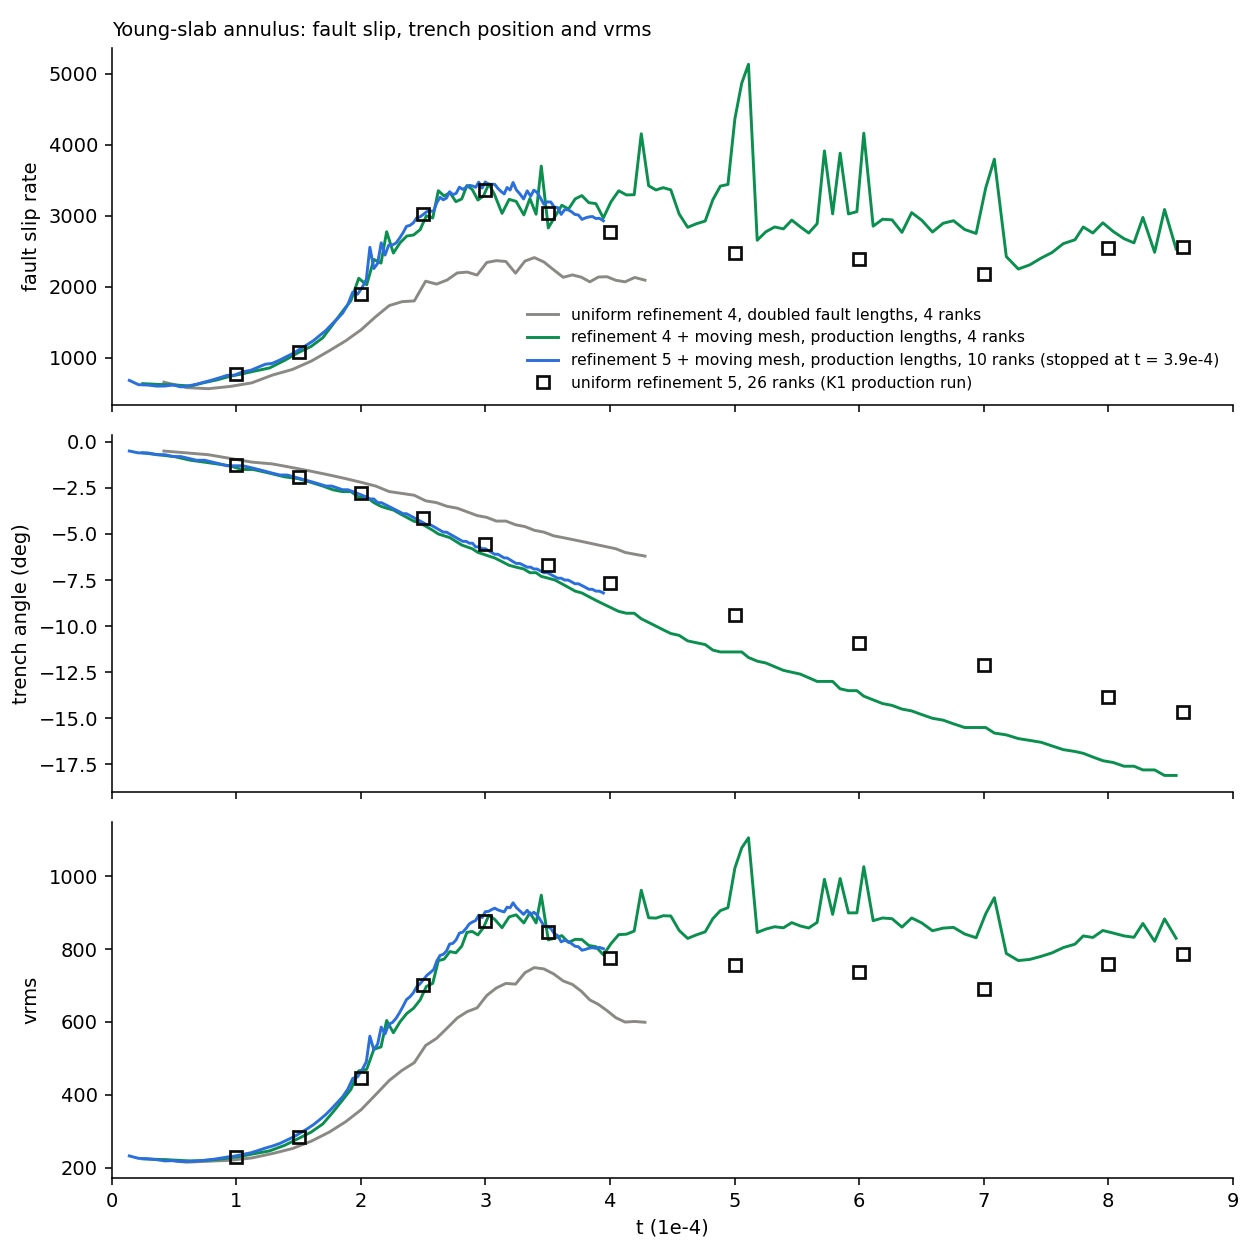
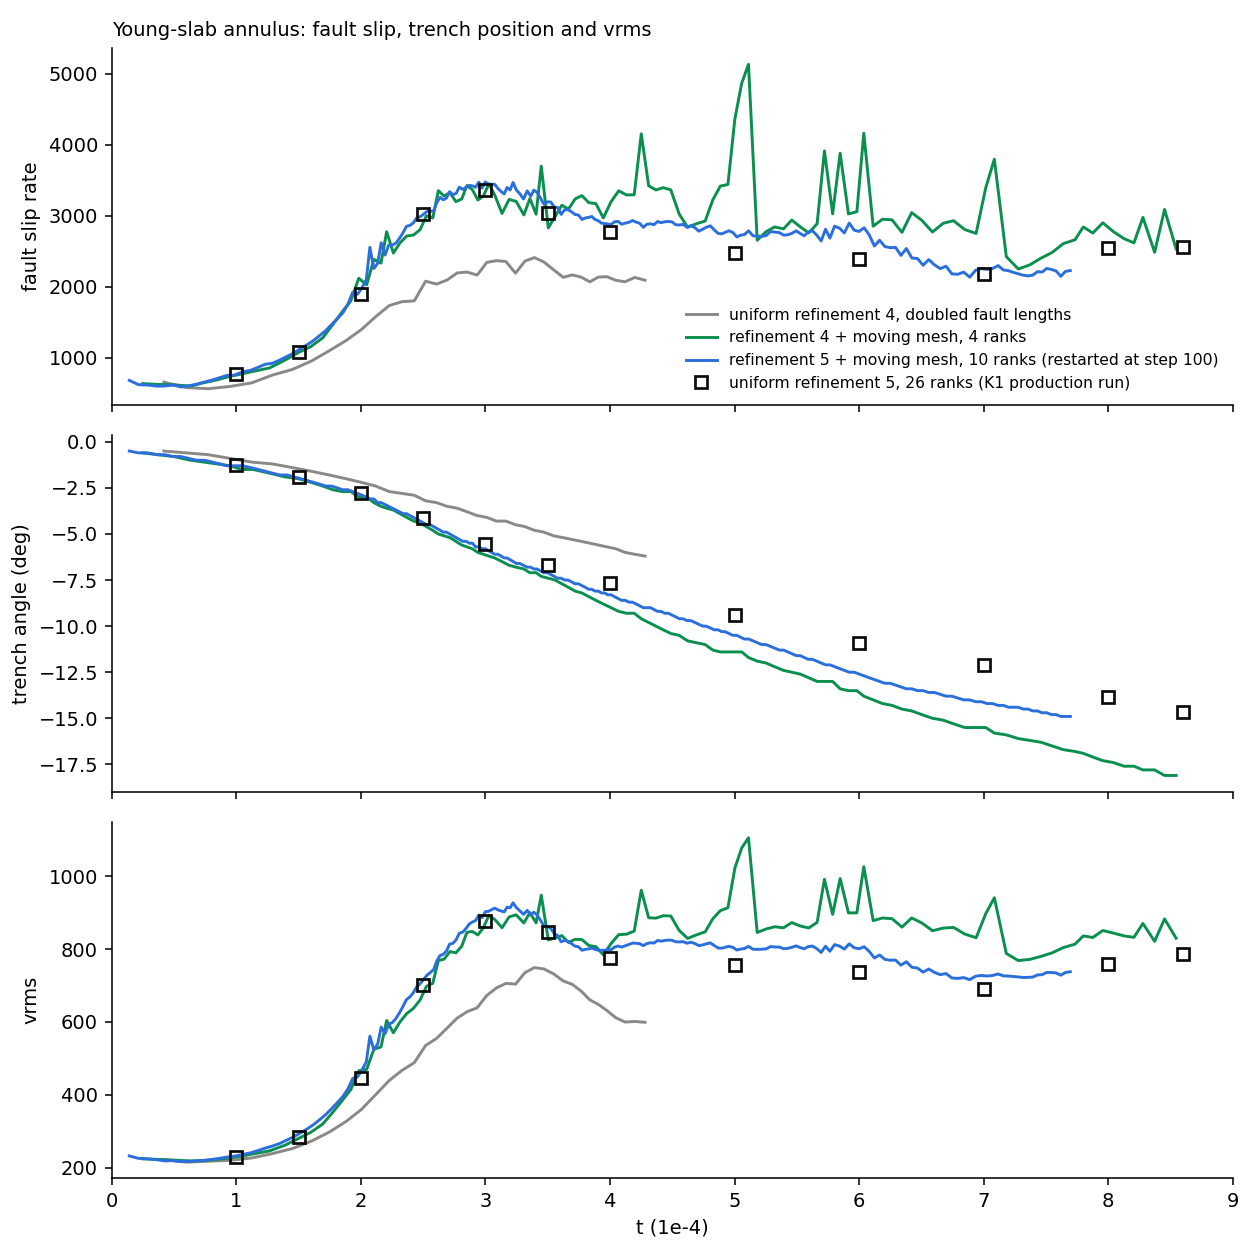
Fault sample runs: refinement-5 moving-mesh run continued to t = 7.7e-4; graded-base histories and cost

diff --git a/mmpde_fault_sample_runs.md b/mmpde_fault_sample_runs.md
@@ -1,6 +1,6 @@
 # Sample runs: a moving mesh with an embedded fault (young-slab annulus)
 
-Status at 2026-11-13 08:00 UTC. All runs listed have finished. Written for the write-up of the moving-mesh (MMPDE) plus fault work.
+Status at 2026-11-14 06:30 UTC. All runs listed have finished. Trials of graded bases under the same moving mesh are in `graded_base_trial.md`. Written for the write-up of the moving-mesh (MMPDE) plus fault work.
 
 ## What the runs are
 
@@ -20,6 +20,7 @@ Status at 2026-11-13 08:00 UTC. All runs listed have finished. Written for the w
 | `mmpde5_ref4_np4_dev_sfollow` | 31,744 | 4 | doubled, rungs sized to the moved mesh | moving | 120 | 1.03e-3 | 153 | 5.1 h |
 | `mmpde5_ref4_prod_np4` | 31,744 | 4 | production | moving | 120 | 8.6e-4 | 202 | 6.7 h |
 | `mmpde5_ref5_prod_np10` | 126,976 | 10 | production | moving | 106 | 3.9e-4 | 373 | 11.0 h (stopped at its wall-time limit) |
+| `mmpde5_ref5_prod_np10_r100` | 126,976 | 10 | production | moving; the run above continued from its step-100 checkpoint | 110 (steps 101 to 210) | 7.7e-4 | 362 | 11.3 h |
 | `mmpde5_ref4_np1_s80` | 31,744 | 1 | doubled | moving | 80 | 6.2e-4 | 348 | 8.0 h |
 
 - "Production" fault lengths: rung spacing 0.0078125, crust thickness 0.00390625, crust depth 0.006. "Doubled" is twice each (the low-resolution recipe).
@@ -29,6 +30,8 @@ Status at 2026-11-13 08:00 UTC. All runs listed have finished. Written for the w
 ## Main result
 
 With the moving mesh, refinement 4 reproduces the uniform refinement-5 production run through the slip peak (to t ≈ 3.5e-4), on a quarter of the cells. After the peak it does not: slip stays 30% to 50% too high and the trench retreats too fast.
+
+At refinement 5 the moving-mesh run stays close to the production run after the peak as well: to t = 7e-4 its slip is 3% to 16% higher and its vrms 3% to 9% higher, with no slip spikes. Its trench runs ahead, by 0.6° at 4e-4 growing to 2.0° at 7e-4.
 
 Entries are fault slip rate / trench angle / vrms.
 
@@ -40,18 +43,18 @@ Entries are fault slip rate / trench angle / vrms.
 | 2.5e-4 | 2018 / −3.13° / 525 | 2899 / −4.50° / 678 | 3018 / −4.39° / 715 | 3024 / −4.15° / 701 |
 | 3.0e-4 | 2318 / −4.09° / 668 | 3341 / −6.14° / 871 | 3477 / −5.80° / 902 | 3361 / −5.57° / 877 |
 | 3.5e-4 | 2307 / −4.98° / 740 | 2907 / −7.39° / 836 | 3197 / −7.11° / 861 | 3037 / −6.70° / 847 |
-| 3.9e-4 | | 3129 / −8.64° / 802 | 2964 / −8.10° / 803 (end of run) | not sampled |
-| 4.0e-4 | 2125 / −5.73° / 624 | 3167 / −8.97° / 811 | | 2777 / −7.68° / 775 |
-| 5.0e-4 | | 4319 / −11.40° / 1017 (a one-step spike) | | 2470 / −9.42° / 755 |
-| 6.0e-4 | | 3412 / −13.60° / 940 | | 2390 / −10.90° / 737 |
-| 7.0e-4 | | 3257 / −15.50° / 883 | | 2186 / −12.09° / 691 |
-| 8.0e-4 | | 2839 / −17.35° / 847 | | 2553 / −13.82° / 758 |
+| 3.9e-4 | | 3129 / −8.64° / 802 | 2964 / −8.10° / 803 (end of the first leg) | not sampled |
+| 4.0e-4 | 2125 / −5.73° / 624 | 3167 / −8.97° / 811 | 2880 / −8.30° / 798 | 2777 / −7.68° / 775 |
+| 5.0e-4 | | 4319 / −11.40° / 1017 (a one-step spike) | 2739 / −10.50° / 801 | 2470 / −9.42° / 755 |
+| 6.0e-4 | | 3412 / −13.60° / 940 | 2780 / −12.60° / 801 | 2390 / −10.90° / 737 |
+| 7.0e-4 | | 3257 / −15.50° / 883 | 2253 / −14.14° / 727 | 2186 / −12.09° / 691 |
+| 8.0e-4 | | 2839 / −17.35° / 847 | ended at 7.7e-4: 2229 / −14.9° / 738 | 2553 / −13.82° / 758 |
 
 ![histories](fault_compare_production_lengths.png)
 
 - Up to t = 3.5e-4 the refinement-4 moving-mesh run is within about 5% of the production run in slip and vrms, except slip at 2.0e-4, which is 10% high. Its trench runs ahead by 0.1° to 0.7°.
 - The refinement-5 moving-mesh run stays within about 5% of the production run in slip and 4% in vrms to t = 3.5e-4.
-- Its trench also runs ahead of the production run's, by 0.2° at 3.0e-4 and 0.4° at 3.5e-4, against 0.6° and 0.7° for refinement 4. So resolution accounts for about half of the trench lead. The rest appears with the moving mesh at either resolution; its cause is not identified.
+- Its trench also runs ahead of the production run's, by 0.2° at 3.0e-4 and 0.4° at 3.5e-4, against 0.6° and 0.7° for refinement 4. Later the lead grows at both resolutions: 2.0° (refinement 5) against 3.4° (refinement 4) at 7.0e-4. So resolution accounts for 40% to 50% of the trench lead. The rest appears with the moving mesh at either resolution; its cause is not identified.
 - The uniform refinement-4 run is not like for like (its crust and rungs are twice as thick), but it shows the size of the gap: slip peak 2400 against 3361.
 
 ## The meshes
@@ -71,10 +74,11 @@ At refinement 4 with doubled lengths, the 4-rank and serial moving-mesh runs agr
 
 ## Caveats to state in the write-up
 
-- **Late time does not agree.** After t = 3.5e-4 the refinement-4 production-length run departs from the production run. From 5e-4 to 8e-4 its slip is 2800 to 3400 against 2200 to 2600, its vrms 850 to 940 against 690 to 760, and its trench 2° to 3.5° further on (−17.4° against −13.8° at 8.0e-4). The refinement-5 moving-mesh run stopped at t = 3.9e-4, just after the peak, so it does not settle this. At its end its slip (2964) is below the refinement-4 run's (3129) and falling, as the production run's does. Its trench (−8.10°) is nearer the refinement-4 run's (−8.64°) than the production run's (about −7.5°, interpolated between samples).
+- **Late time at refinement 4 does not agree.** After t = 3.5e-4 the refinement-4 production-length run departs from the production run. From 5e-4 to 8e-4 its slip is 2800 to 3400 against 2200 to 2600, its vrms 850 to 940 against 690 to 760, and its trench 2° to 3.5° further on (−17.4° against −13.8° at 8.0e-4). The refinement-5 moving-mesh run does not do this (slip 2250 to 2780 over the same interval), so it is a resolution effect.
+- **The restart.** The refinement-5 run is two legs joined at step 100 (t = 3.80e-4). The second leg starts from the checkpoint with the fields remapped to a re-moved base. Its steps 101 to 103 are within 0.5% in slip of the first leg's, which ran on to step 106.
 - **Slip spikes.** That run has one-step slip spikes after the peak (up to 5100 at t ≈ 5.1e-4, against a level near 3000). Cause not investigated.
 - **One placement refusal.** At step 84 of that run the fault could not be cut ("the fault touches the domain boundary"); the previous step's fault was kept for one step. This is a known limit for a fault that ends within a few fine cells of a wall (#1090).
-- **Cost.** To t = 4.0e-4 the refinement-4 moving-mesh run took 57 steps and 3.2 h on 4 ranks (13 core-hours). The production run took 84 steps at about 113 s/step on 26 ranks (about 69 core-hours, estimated from its median step time). That is roughly a fifth of the core-hours at a similar wall time, but on different machines, and ours was shared, so quote it as indicative. At equal resolution the moving mesh costs more, not less: 373 s/step on 10 ranks at refinement 5 against 100 s/step on 26 ranks. To t = 3.9e-4 that run took 106 steps and 11.0 h (110 core-hours).
+- **Cost.** To t = 4.0e-4 the refinement-4 moving-mesh run took 57 steps and 3.2 h on 4 ranks (13 core-hours). The production run took 84 steps at about 113 s/step on 26 ranks (about 69 core-hours, estimated from its median step time). That is roughly a fifth of the core-hours at a similar wall time, but on different machines, and ours was shared, so quote it as indicative. At equal resolution the moving mesh costs more, not less: 373 s/step on 10 ranks at refinement 5 against 100 s/step on 26 ranks. To t = 3.9e-4 that run took 106 steps and 11.0 h (110 core-hours); the second leg, to t = 7.7e-4, took 110 steps and 11.3 h (113 core-hours).
 - **Rank count.** The mover's result depends weakly on the rank count through evaluation at partition seams (#1093, #1107). Compare runs at a fixed rank count.
 - **Not for use.** A serial run with an extra plate-boundary term in the metric and rungs sized to the moved mesh fell well behind the others (slip peak 2011) and is treated as suspect.
 - **Rung size.** The rung spacing is set once at the start and never changed during a run. Sizing it from the moved mesh (0.0088 against the recipe's 0.0156 at doubled lengths) changes the peak by a few percent; the exact ratio is secondary.

diff --git a/graded_base_trial.md b/graded_base_trial.md
@@ -1,6 +1,6 @@
 # Trial: a radially graded annulus base under the moving mesh and the fault
 
-Interim, 2026-11-14 01:25 UTC. The radially graded run is still going (step 46 of 60); a production-length run on the banded base with a slab region (section 4) is queued behind it. **Section 4 is the current design**; sections 2 and 3 are the steps that led to it. Same model, driver and code as `mmpde_fault_sample_runs.md`, plus new driver options for the base: `uw_cell_inner`, `uw_cell_window`, `uw_cell_band`, `uw_cell_grow`.
+Status at 2026-11-14 06:30 UTC. The radially graded run has finished (60 steps); the production-length run on the banded base with a slab region is at step 97 of 200. **Section 4 is the current design**; sections 2 and 3 are the steps that led to it. Same model, driver and code as `mmpde_fault_sample_runs.md`, plus new driver options for the base: `uw_cell_inner`, `uw_cell_window`, `uw_cell_band`, `uw_cell_grow`.
 
 ## 1. Does a graded base survive the refinement hierarchy?
 
@@ -91,22 +91,41 @@ Cell edge (km), 10th percentile / median, in cold material (T < 0.5), after the 
 
 ![band](graded_base_band_step0.png)
 
-## 5. Cost
+## 5. Histories on the graded bases
 
-First steps only (0 to 10 for the graded run, 0 to 20 for the others), on a shared 96-thread Linux workstation, so indicative.
+Entries are fault slip rate / trench angle / vrms. All three left-hand columns use the moving mesh.
 
-| Run | Ranks | Median s/step | Core-seconds per step | Median dt | Core-seconds per unit model time |
+| t | Band + slab region, 37,920 | Radial ramp, 30,592 | Uniform ref 5, 126,976 | Uniform ref 5 production run (fixed mesh) |
+|---|---|---|---|---|
+| 1.0e-4 | 816 / −1.64° / 243 | 773 / −1.45° / 240 | 766 / −1.30° / 232 | 767 / −1.25° / 230 |
+| 1.5e-4 | 1278 / −2.44° / 320 | 1068 / −2.10° / 292 | 1110 / −1.97° / 292 | 1079 / −1.90° / 284 |
+| 2.0e-4 | 2423 / −3.72° / 546 | 2044 / −3.04° / 481 | 1964 / −2.87° / 463 | 1904 / −2.76° / 445 |
+| 2.5e-4 | 3454 / −5.51° / 826 | 2708 / −4.42° / 666 | 3018 / −4.39° / 715 | 3024 / −4.15° / 701 |
+| 3.0e-4 | (step 97: 3470 / −7.2° / 970) | 3559 / −6.20° / 897 | 3477 / −5.80° / 902 | 3361 / −5.57° / 877 |
+| 3.4e-4 | | 3247 / −7.62° / 884 | 3349 / −6.90° / 898 | 3037 / −6.70° / 847 (at 3.5e-4) |
+
+![histories](graded_base_histories.png)
+
+- **Radial ramp.** In family with the other moving-mesh runs: slip 10% low at 2.5e-4 and 6% high at 3.0e-4, trench about 1° ahead of the production run at the end. No failed steps, no placement refusals in 60 steps.
+- **Band plus slab region.** It runs ahead of every other run, by roughly 0.4e-4 in time: its state at 2.5e-4 is close to the refinement-5 moving-mesh run's at 3.0e-4. Cause not identified. This base has 12 to 16 km cells in the lid where the others have 24 to 40 km, and the weak crust is 11 km thick, so the lid may not be converged in the refinement-5 runs; that is a guess. No failed steps or placement refusals in 97 steps.
+- **The mesh holds.** At step 90 of the banded run the lid is 12 / 17 km all round and the slab 26 to 33 km down to 660 km.
+- **The slab region is nearly outrun.** By t = 3e-4 the trench has moved 7° to 8° (800 to 900 km of arc) against the region's 1000 km half-width.
+
+## 6. Cost
+
+Core-hours of solver steps to a matched model time, on a shared 96-thread Linux workstation, so indicative.
+
+| Run | Ranks | Median s/step | Steps to t = 3.0e-4 | Core-hours to t = 3.0e-4 | Smallest time step |
 |---|---|---|---|---|---|
-| Radially graded base + moving mesh | 4 | 88 | 420 | 8.0e-6 | 5.7e7 |
-| Uniform ref 4 + moving mesh | 4 | 151 | 680 | 1.0e-5 | 6.8e7 |
-| Uniform ref 5 + moving mesh | 10 | 315 | 3,230 | 6.3e-6 | 4.8e8 |
+| Radial ramp base + moving mesh | 4 | 132 | 48 | 7 | 3.2e-6 |
+| Band + slab region base + moving mesh | 4 | 159 | 97 | 17 | 1.6e-6 |
+| Uniform ref 4 + moving mesh | 4 | 202 | 39 | 9 | 4.1e-6 |
+| Uniform ref 5 + moving mesh | 10 | 373 | 71 | 72 | 2.3e-6 |
 
 - The uniform refinement-5 production run on a Linux cluster took a median 100 s/step on 26 ranks (2,600 core-seconds per step).
-- The radially graded run costs about an eighth of the refinement-5 moving-mesh run per unit of model time, for the same resolution in the lid and the slab's top 200 km. Its step time rises as the slab speeds up (140 to 170 s near t = 2e-4).
-- Windowed bases, one step on 2 ranks: 194 s (A) and 126 s (B). With the smaller time step, B should cost roughly the same per unit of model time as the radially graded base. The 4-rank run of B will measure it.
+- The banded base costs about a quarter of the refinement-5 moving-mesh run to the same model time, with a finer lid and a similar slab. It costs 2.5 times the radial ramp: half the time step, and more cells.
 
 ## Limits of this trial
 
 - The window (section 3) and the slab region (section 4) are fixed in the base. The trench moves about 14° (870 km) by t = 8e-4 in the production run, so a long run needs a wider or offset window.
-- The banded base has only been run for one step; its history and cost per step await the queued run.
 - The band and the window are put in through a size callback wrapped round the library's annulus mesher from the driver. A proper option on the mesher is library work, not done here.
